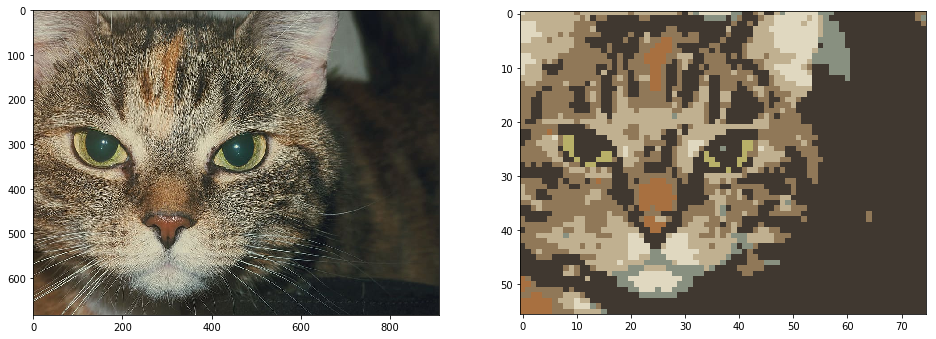
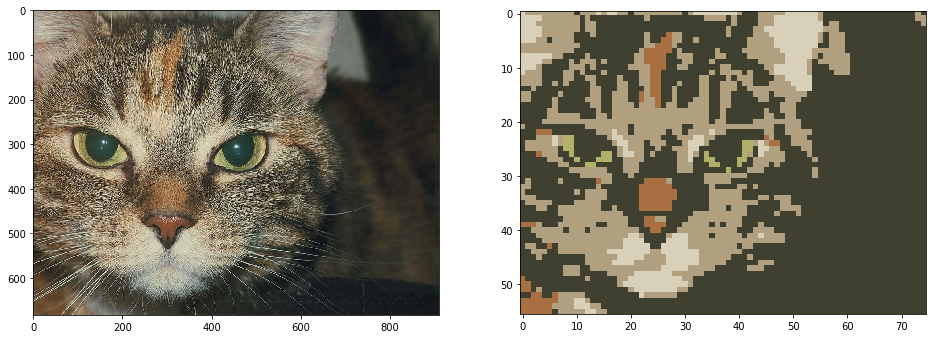
Fixed bug in dithering
- The dither key now accepts bool values
- Dithering actually works now and uses less resources
- Updated CLI for bool dithering
- Updated README.md
- Updated some example iamges and added a new one
- Increased version number and updated setup.py

Changed region(s): [[0.5577, 0.0295, 0.9295, 0.944], [0.9605, 0.0295, 0.9915, 0.0885], [0.8985, 0.6195, 0.9295, 0.649]]

diff --git a/pyxelate.py b/pyxelate.py
@@ -10,7 +10,7 @@ from skimage.transform import resize
 
 from sklearn.mixture import BayesianGaussianMixture
 
-__version__ = '1.1.0'
+__version__ = '1.1.1'
 __version_info__ = tuple(int(num) for num in __version__.split('.'))
 
 class Pyxelate:
@@ -63,7 +63,7 @@ class Pyxelate:
 
 	ITER = 2
 
-	def __init__(self, height, width, color=8, dither=None, regenerate_palette=True, random_state=0):
+	def __init__(self, height, width, color=8, dither=True, regenerate_palette=True, random_state=0):
 		"""Create instance for generating similar pixel arts."""
 
 		self.height = int(height)
@@ -73,12 +73,10 @@ class Pyxelate:
 		self.color = int(color)
 		if self.color < 2:
 			raise ValueError("The minimum number of colors is 2.")
-		if not dither:
+		if dither:
 			self.dither = 1 / (self.color + 1)
-		elif dither > 0. and dither < 1.:
-			self.dither = float(dither)
 		else:
-			raise ValueError("The value of dither should be between 0. - 1.")
+			self.dither = 0.
 		self.regenerate_palette = bool(regenerate_palette)
 		self.is_fitted = False
 		self.random_state = int(random_state)
@@ -108,30 +106,35 @@ class Pyxelate:
 		image = self._reduce(image)
 
 		# apply palette
-		width, height, depth = image.shape
-		reshaped = np.reshape(image, (width * height, depth))
-		y = self.model.predict(reshaped)
+		height, width, depth = image.shape
+		reshaped = np.reshape(image, (height * width, depth))
+		probs = self.model.predict_proba(reshaped)
+		y = np.argmax(probs, axis=1)
+
 		# increase hue and snap color values to multiples of 8
 		palette = rgb2hsv(self.model.means_.reshape(-1, 1, 3))
 		palette[:, :, 1] *= 1.14
 		palette = hsv2rgb(palette).reshape(self.color, 3) // 8 * 8
-
-		# return recolored image
+		# generate recolored image
 		image = palette[y]
-		# dither
+
+		# apply dither over threshold if it's not zero
 		if self.dither:
-			y = self.model.predict_proba(reshaped)
-			# get second best probability and remove it
-			y[np.arange(len(y)), np.argmax(y, axis=1)] = 0
+			# get second best probability by removing the best one
+			probs[np.arange(len(y)), y] = 0
 			# get new best and values
-			v = np.max(y, axis=1)
-			y = np.argmax(y, axis=1)
+			v = np.max(probs, axis=1)
+			y = np.argmax(probs, axis=1)
+
 			# replace every second pixel with second best color
+			pad = not bool(width % 2)
 			for i in range(0, len(image), 2):
+				if pad:
+					i += (i // width) % 2
 				if v[i] > self.dither:
 					image[i] = palette[y[i]]
 
-		image = np.reshape(image, (width, height, depth))
+		image = np.reshape(image, (height, width, depth))
 		return np.clip(image.astype("int"), 0, 255)
 
 	def _reduce(self, image):

diff --git a/pyx.py b/pyx.py
@@ -15,7 +15,7 @@ def parse_arguments():
     parser.add_argument('-f', '--factor', required=False, metavar='factor', type=int, default=5, help='The factor by which the image should be downscaled. Defaults to 5.')
     parser.add_argument('-s', '--scaling', required=False, metavar='scaling', type=int, default=5, help='The factor by which the generated image should be upscaled. Defaults to 5.')
     parser.add_argument('-c', '--colors', required=False, metavar='colors', type=int, default=8, help='The amount of colors of the pixelated image. Defaults to 8.')
-    parser.add_argument('-d', '--dither', required=False, metavar='dither', type=float, default=None, help='Amount of dithering 0. - 1.')
+    parser.add_argument('-d', '--dither', required=False, metavar='dither', type=bool, default=True, help='Allow dithering')
     parser.add_argument('-r', '--regenerate_palette', required=False, metavar='regenerate_palette', type=bool, default=True, help='Regenerate the palette for each image. Defaults to True.')
     parser.add_argument('-t', '--random_state', required=False, metavar='random_state', type=int, default=0, help='Sets the random state of the Bayesian Gaussian Mixture. Defaults to 0.')
     parser.add_argument('-i', '--input', required=False, metavar='path', type=str, default='', help='Path to single image or directory containing images for processing. Defaults <cwd>.')

diff --git a/setup.py b/setup.py
@@ -1,7 +1,7 @@
 from setuptools import setup
 
 setup(name='pyxelate',
-      version='1.1.0',
+      version='1.1.1',
       description='Pyxelate is a Python class that converts images into tiny pixel arts with limited color palettes.',
       url='http://github.com/sedthh/pyxelate',
       author='sedthh',

diff --git a/README.md b/README.md
@@ -18,8 +18,8 @@ import matplotlib.pyplot as plt
 img = io.imread("cat.jpg")
 # generate pixel art that is 1/12 the size
 height, width, _ = img.shape 
-colors = 8
-dither = 0.
+colors = 5
+dither = False
 p = Pyxelate(height // 12, width // 12, colors, dither)
 img_small = p.convert(img)  # convert an image with these settings
 
@@ -36,11 +36,13 @@ The **Pyxelate()** class accepts the following init parameters:
 - **height**: the height of the result image (height was chosen to be first parameter to mirror the array representation)
 - **width**: the width of the result image
 - **color**: the number of colors (default is 8)
-- **dither**: the amont of dithering between 0. - 1. (defaults value is 1 / (color + 1) )
+- **dither**: apply dithering (default is True) 
 - **regenerate_palette**: if set to False, then the palette will only be generated once, and all future images will be generated using this original palette. This is useful for generating a sequence of images with the same palette (the default value is True, all images will have their own palettes).
 - **random_state**: the random state for the Bayesian Gaussian Mixture model (default is 0)
 
 Once the class is created, call **convert(image)** by passing a NumPy array representation of the image.  
+
+**NOTE:** the process is pretty time consuming, generating large pixel arts can take quite a while!
 
 ![Synthwave vibes](examples/f.png)
 
@@ -63,13 +65,12 @@ usage: pyx.py [-h] [-f scale down input image by factor] [-s scale up output ima
 
 If no **--output** was defined, a **pyxelated/** folder will be created for output images. 
 
+![Synthwave vibes](examples/outrun.png)
 
 ### Requirements
 
 The Pyxelate class requires Python 3.7+ and relies on the following libraries to run:
 - [skimage 0.16.2](https://scikit-image.org/)
 - [sklearn 0.22.1](https://scikit-learn.org/stable/)
-
-Limitations: the method does not support dithering, as it would most likely add noise to areas with color gradients, making edges less clear. 
 
 The source code is available under the MIT license.
